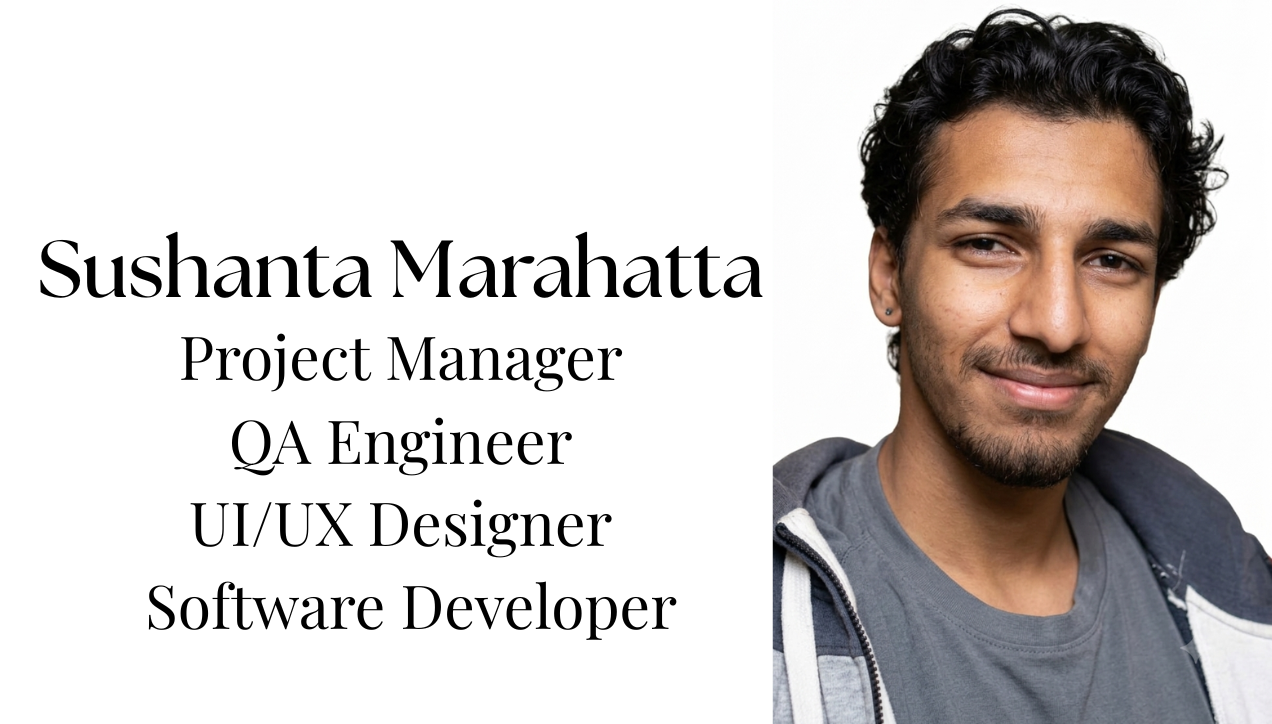
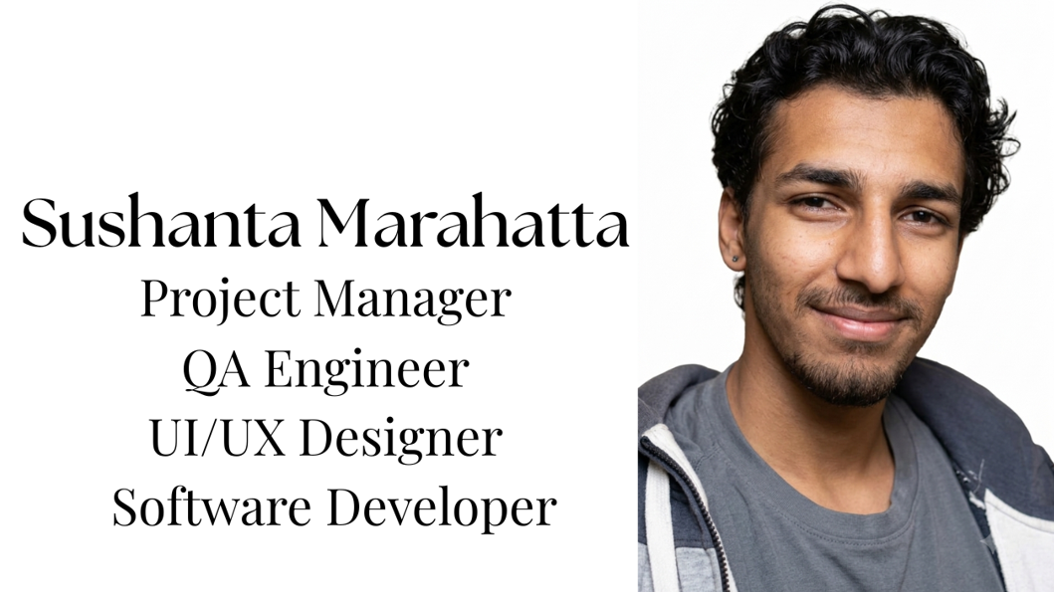
This is the updated code of Sushanta Marahatta Portfolio Website

diff --git a/index.html b/index.html
@@ -13,8 +13,8 @@
   <meta property="og:url" content="https://sushantamarahatta.vercel.app/" />
   <meta property="og:title" content="Sushanta Marahatta - Project Manager & UI/UX Developer" />
   <meta property="og:description" content="Building clean, user-friendly digital products. View my portfolio of projects and skills." />
-  <meta property="og:image" content="https://res.cloudinary.com/zekkspn2/image/upload/v1786858437/Preview_image_f6u1xy.png" />
-  <meta property="og:image:secure_url" content="https://res.cloudinary.com/zekkspn2/image/upload/v1786858437/Preview_image_f6u1xy.png" />
+  <meta property="og:image" content="https://sushantamarahatta.vercel.app/Preview_image.png" />
+  <meta property="og:image:secure_url" content="https://sushantamarahatta.vercel.app/Preview_image.png" />
   <meta property="og:image:width" content="1200" />
   <meta property="og:image:height" content="630" />
   <meta property="og:image:alt" content="Sushanta Marahatta Portfolio Preview" />
@@ -25,7 +25,7 @@
   <meta name="twitter:url" content="https://sushantamarahatta.vercel.app/" />
   <meta name="twitter:title" content="Sushanta Marahatta - Project Manager & UI/UX Developer" />
   <meta name="twitter:description" content="Building clean, user-friendly digital products. View my portfolio of projects and skills." />
-  <meta name="twitter:image" content="https://res.cloudinary.com/zekkspn2/image/upload/v1786858437/Preview_image_f6u1xy.png" />
+  <meta name="twitter:image" content="https://sushantamarahatta.vercel.app/Preview_image.png" />
   <meta name="twitter:image:alt" content="Sushanta Marahatta Portfolio Preview" />
 </head>
 

diff --git a/src/components/Projects.tsx b/src/components/Projects.tsx
@@ -608,7 +608,18 @@ function ProjectRow({ project, reversed }: {project: Project;reversed: boolean;}
   return (
     <article className="grid items-center gap-10 md:grid-cols-2 md:gap-6">
       <div className={reversed ? 'md:order-2' : 'md:order-1'}>
-        <div className="h-[240px] overflow-hidden rounded-2xl">{project.visual}</div>
+        {project.link ? (
+          <a 
+            href={project.link.href}
+            target="_blank"
+            rel="noreferrer"
+            className="block h-[240px] overflow-hidden rounded-2xl hover:opacity-90 transition-opacity"
+          >
+            {project.visual}
+          </a>
+        ) : (
+          <div className="h-[240px] overflow-hidden rounded-2xl">{project.visual}</div>
+        )}
       </div>
 
       <div
@@ -616,6 +627,9 @@ function ProjectRow({ project, reversed }: {project: Project;reversed: boolean;}
         reversed ? 'md:order-1 md:items-end md:text-right' : 'md:order-2 md:items-start'}`
         }>
         
+        {project.order !== undefined && (
+          <span className="font-mono text-xs text-gray-500">#{project.order}</span>
+        )}
         {project.eyebrow && <p className="font-mono text-xs text-accent">{project.eyebrow}</p>}
         <h3 className="font-display text-2xl font-bold text-heading">{project.title}</h3>
 

diff --git a/src/lib/projectService.ts b/src/lib/projectService.ts
@@ -54,9 +54,19 @@ export async function getAllProjects(): Promise<Project[]> {
 
     // Sort by order if available, otherwise by createdAt
     projects.sort((a, b) => {
+      // Both have order - sort by order ascending
       if (a.order !== undefined && b.order !== undefined) {
         return a.order - b.order;
       }
+      // Only a has order - a comes first
+      if (a.order !== undefined) {
+        return -1;
+      }
+      // Only b has order - b comes first
+      if (b.order !== undefined) {
+        return 1;
+      }
+      // Neither has order - sort by createdAt ascending
       if (a.createdAt && b.createdAt) {
         return a.createdAt.getTime() - b.createdAt.getTime();
       }
